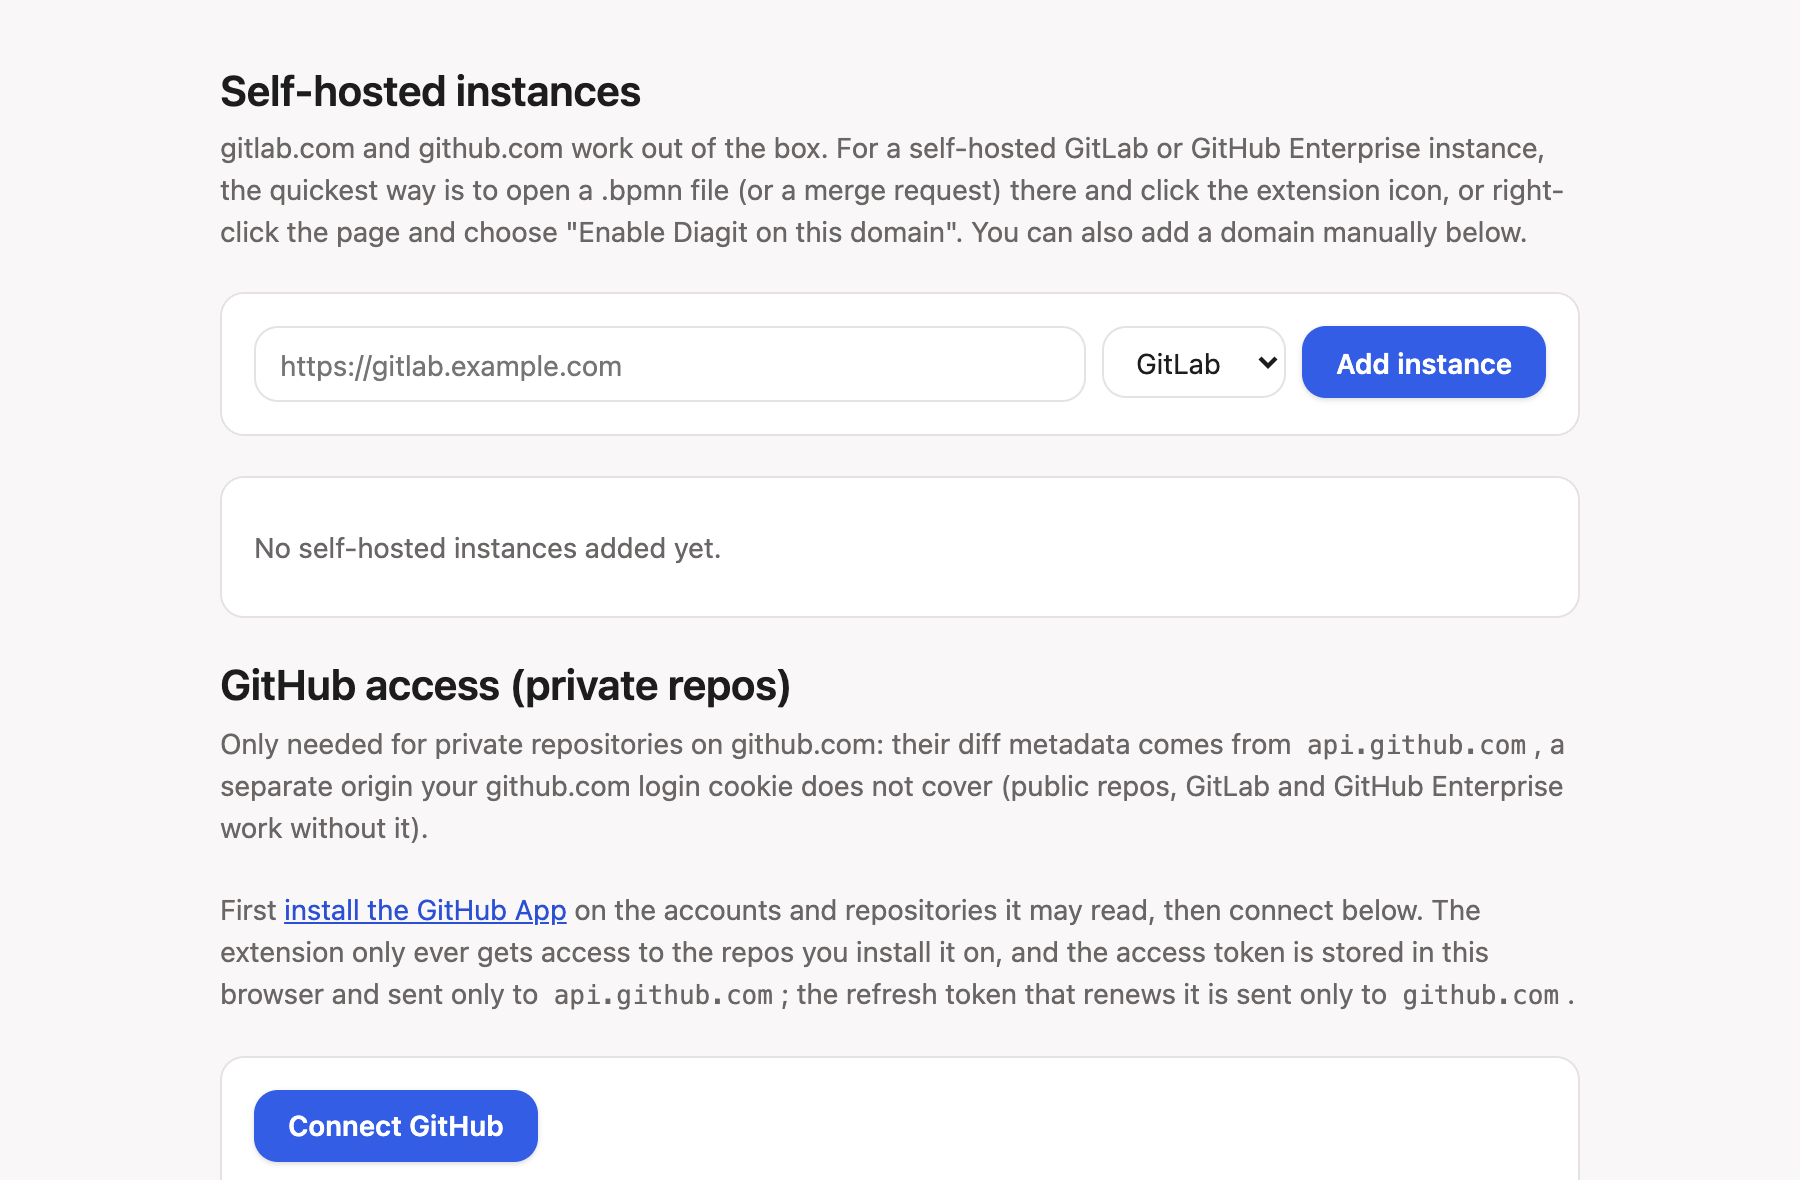
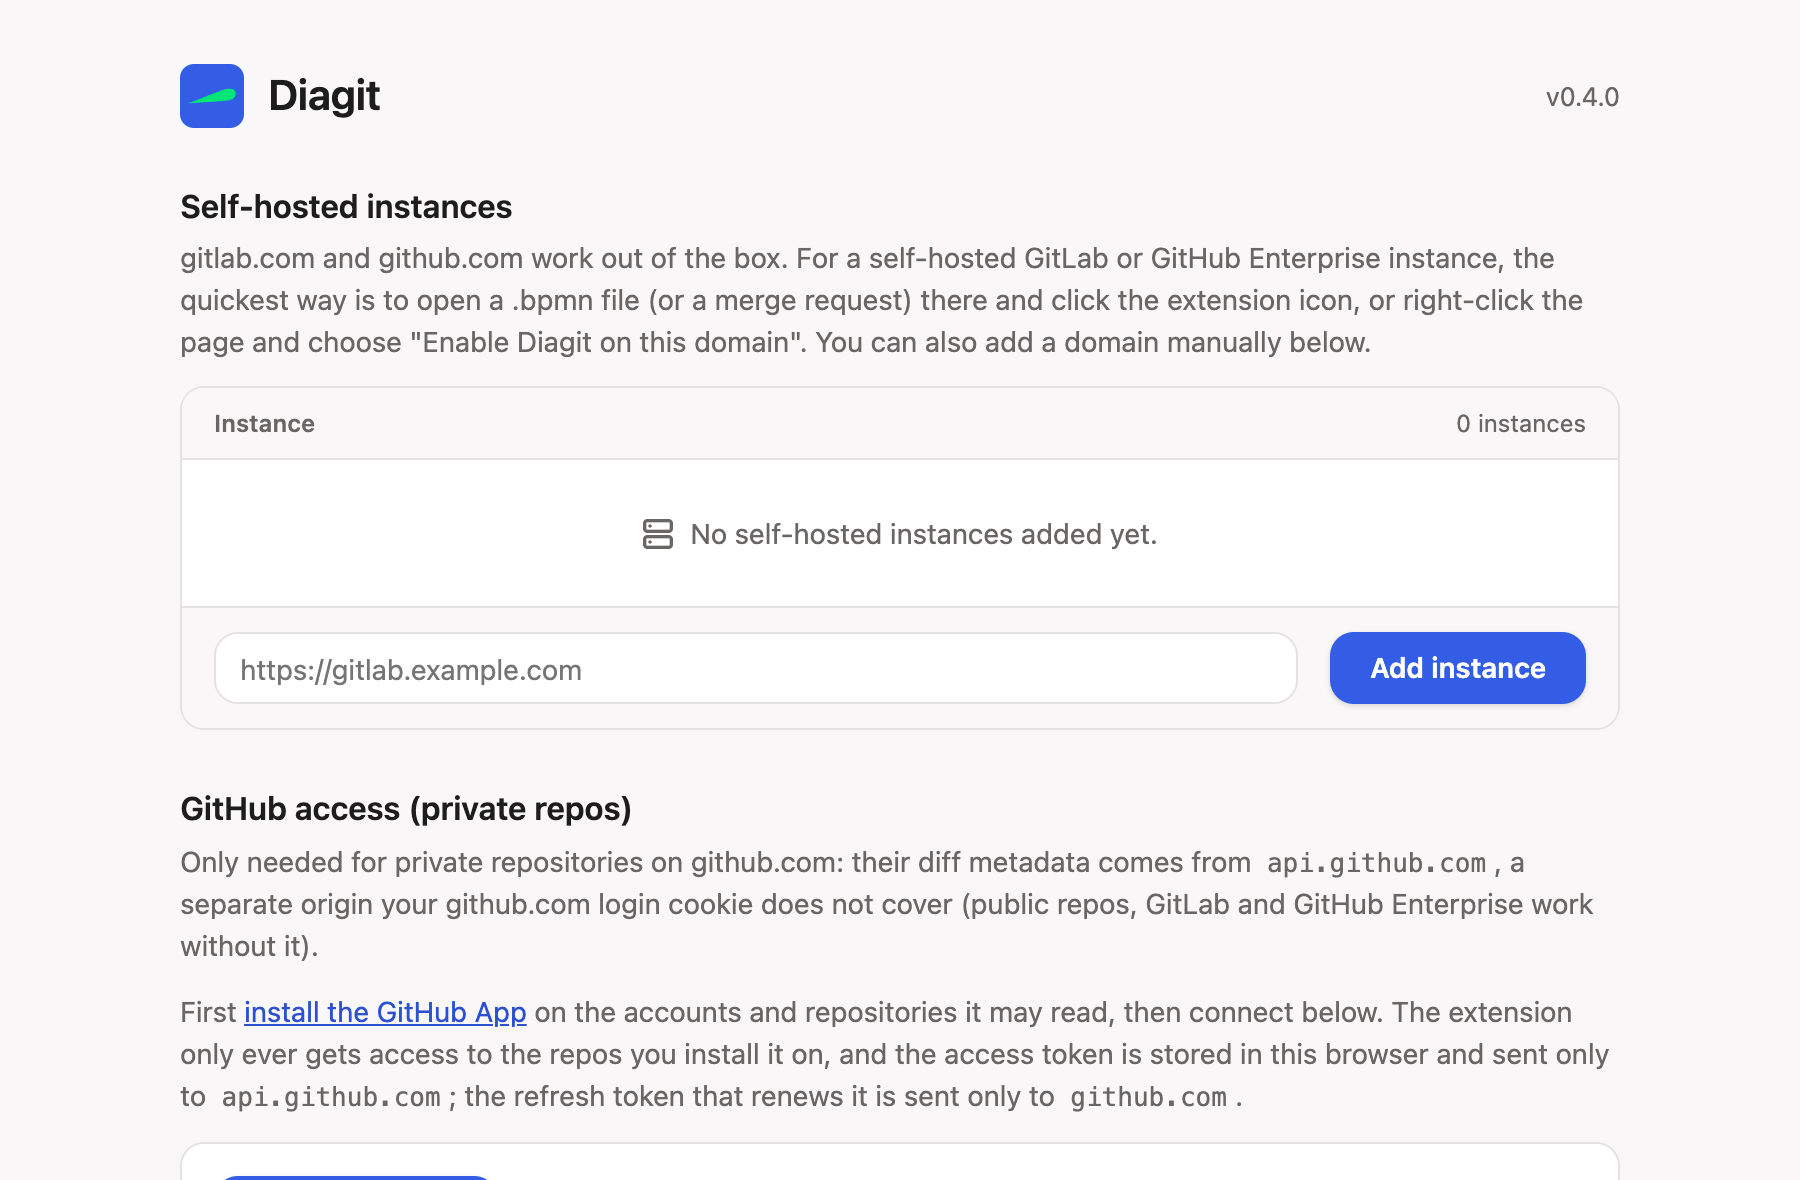
refactor: remove the unused type select from self-hosted instances (#185)

diff --git a/packages/extension/src/views/options/SelfHostedHostsSection.ts b/packages/extension/src/views/options/SelfHostedHostsSection.ts
@@ -1,6 +1,5 @@
 import { Server } from 'lucide'
 import { browser } from 'wxt/browser'
-import type { GitHost } from '../../git-hosts/GitHost'
 import type { HostAccess } from '../../git-hosts/self-hosted/HostAccess'
 import type { SelfHostedHost } from '../../git-hosts/self-hosted/SelfHostedHostStore'
 import { h } from '../../platform/utils/dom'
@@ -11,11 +10,6 @@ import { normalizeOrigin, originToPattern } from '../../platform/utils/origin'
 const INTRO =
   'gitlab.com and github.com work out of the box. For a self-hosted GitLab or GitHub Enterprise instance, the quickest way is to open a .bpmn file (or a merge request) there and click the extension icon, or right-click the page and choose "Enable Diagit on this domain". You can also add a domain manually below.'
 
-export interface HostChoices {
-  all(): readonly GitHost[]
-  hostById(id: string | undefined): GitHost | undefined
-}
-
 type StatusKind = 'error' | 'ok'
 
 export class SelfHostedHostsSection {
@@ -25,10 +19,6 @@ export class SelfHostedHostsSection {
     placeholder: 'https://gitlab.example.com',
     'aria-label': 'Instance URL',
   }) as HTMLInputElement
-  private readonly typeSelect = h('select', {
-    class: 'input',
-    'aria-label': 'Type',
-  }) as HTMLSelectElement
   private readonly addButton = h('button', {
     class: 'btn btn-primary add-instance',
     type: 'button',
@@ -38,15 +28,9 @@ export class SelfHostedHostsSection {
   private readonly count = h('th', { scope: 'col', class: 'count' })
   private readonly rows = h('tbody')
 
-  constructor(
-    private readonly access: HostAccess,
-    private readonly hosts: HostChoices,
-  ) {}
+  constructor(private readonly access: HostAccess) {}
 
   mount(app: HTMLElement): void {
-    this.typeSelect.append(
-      ...this.hosts.all().map((host) => h('option', { value: host.id, text: host.label })),
-    )
     app.append(
       h('section', { class: 'section' }, [
         h('h2', { text: 'Self-hosted instances' }),
@@ -73,7 +57,7 @@ export class SelfHostedHostsSection {
     }
     if (!granted) return this.setStatus('Permission was not granted.', 'error')
 
-    await this.access.label(origin, this.typeSelect.value)
+    await this.access.add(origin)
     this.originInput.value = ''
     this.setStatus(`Added ${origin}.`, 'ok')
     await this.refresh()
@@ -93,7 +77,7 @@ export class SelfHostedHostsSection {
     if (!hosts.length) {
       this.rows.replaceChildren(
         h('tr', {}, [
-          h('td', { class: 'empty', colspan: '3' }, [
+          h('td', { class: 'empty', colspan: '2' }, [
             lucideIcon(Server),
             'No self-hosted instances added yet.',
           ]),
@@ -106,20 +90,10 @@ export class SelfHostedHostsSection {
 
   private instanceTable(): HTMLTableElement {
     return h('table', { class: 'instances' }, [
-      h('thead', {}, [
-        h('tr', {}, [
-          h('th', { scope: 'col', text: 'Instance' }),
-          h('th', { scope: 'col', text: 'Type' }),
-          this.count,
-        ]),
-      ]),
+      h('thead', {}, [h('tr', {}, [h('th', { scope: 'col', text: 'Instance' }), this.count])]),
       this.rows,
       h('tfoot', {}, [
-        h('tr', {}, [
-          h('td', {}, [this.originInput, this.status]),
-          h('td', {}, [this.typeSelect]),
-          h('td', {}, [this.addButton]),
-        ]),
+        h('tr', {}, [h('td', {}, [this.originInput, this.status]), h('td', {}, [this.addButton])]),
       ]),
     ])
   }
@@ -132,11 +106,7 @@ export class SelfHostedHostsSection {
       'aria-label': `Remove ${host.origin}`,
     })
     remove.addEventListener('click', () => void this.remove(host))
-    return h('tr', {}, [
-      h('td', { text: host.origin }),
-      h('td', { text: this.hosts.hostById(host.type)?.label ?? 'Self-hosted' }),
-      h('td', {}, [remove]),
-    ])
+    return h('tr', {}, [h('td', { text: host.origin }), h('td', {}, [remove])])
   }
 
   private setStatus(text: string, kind: StatusKind): void {

diff --git a/packages/extension/test/dom/SelfHostedHostsSection.test.ts b/packages/extension/test/dom/SelfHostedHostsSection.test.ts
@@ -4,18 +4,13 @@ import { SelfHostedHostsSection } from '../../src/views/options/SelfHostedHostsS
 
 vi.mock('wxt/browser', () => ({ browser: {} }))
 
-const hosts = {
-  all: () => [{ id: 'gitlab', label: 'GitLab' }],
-  hostById: (id: string | undefined) => (id === 'gitlab' ? { label: 'GitLab' } : undefined),
-}
-
 afterEach(() => {
   document.body.innerHTML = ''
 })
 
 async function mountedWith(instances: SelfHostedHost[]): Promise<HTMLTableElement> {
   const access = { list: () => Promise.resolve(instances) }
-  new SelfHostedHostsSection(access as never, hosts as never).mount(document.body)
+  new SelfHostedHostsSection(access as never).mount(document.body)
   await vi.waitFor(() => expect(document.querySelector('tbody tr')).not.toBeNull())
   return document.querySelector('table')!
 }
@@ -27,35 +22,31 @@ function cellTexts(table: HTMLTableElement, selector: string): string[][] {
 }
 
 describe('SelfHostedHostsSection', () => {
-  it('lists each instance as a table row with its type', async () => {
+  it('lists each instance as a table row', async () => {
     const table = await mountedWith([
-      { origin: 'https://gitlab.example.com', type: 'gitlab' },
+      { origin: 'https://gitlab.example.com' },
       { origin: 'https://git.example.org' },
     ])
 
-    expect(cellTexts(table, 'thead tr')).toEqual([['Instance', 'Type', '2 instances']])
+    expect(cellTexts(table, 'thead tr')).toEqual([['Instance', '2 instances']])
     expect(cellTexts(table, 'tbody tr')).toEqual([
-      ['https://gitlab.example.com', 'GitLab', 'Remove'],
-      ['https://git.example.org', 'Self-hosted', 'Remove'],
+      ['https://gitlab.example.com', 'Remove'],
+      ['https://git.example.org', 'Remove'],
     ])
   })
 
   it('shows the empty state inside the table', async () => {
     const table = await mountedWith([])
 
-    expect(cellTexts(table, 'thead tr')).toEqual([['Instance', 'Type', '0 instances']])
+    expect(cellTexts(table, 'thead tr')).toEqual([['Instance', '0 instances']])
     expect(cellTexts(table, 'tbody tr')).toEqual([['No self-hosted instances added yet.']])
   })
 
   it('places the add form in the footer row on the same columns', async () => {
-    const table = await mountedWith([{ origin: 'https://gitlab.example.com', type: 'gitlab' }])
+    const table = await mountedWith([{ origin: 'https://gitlab.example.com' }])
     const footerCells = [...table.querySelectorAll('tfoot td')]
 
     expect(table.querySelector('thead th:last-child')?.textContent).toBe('1 instance')
-    expect(footerCells.map((cell) => cell.firstElementChild?.tagName)).toEqual([
-      'INPUT',
-      'SELECT',
-      'BUTTON',
-    ])
+    expect(footerCells.map((cell) => cell.firstElementChild?.tagName)).toEqual(['INPUT', 'BUTTON'])
   })
 })

diff --git a/packages/extension/src/git-hosts/self-hosted/SelfHostedHostStore.ts b/packages/extension/src/git-hosts/self-hosted/SelfHostedHostStore.ts
@@ -4,7 +4,6 @@ const STORAGE_KEY = 'selfHostedHosts'
 
 export interface SelfHostedHost {
   origin: string
-  type?: string
 }
 
 export class SelfHostedHostStore {
@@ -16,9 +15,8 @@ export class SelfHostedHostStore {
 
   async save(host: SelfHostedHost): Promise<void> {
     const hosts = await this.list()
-    const existing = hosts.find((saved) => saved.origin === host.origin)
     const others = hosts.filter((saved) => saved.origin !== host.origin)
-    await this.write([...others, { ...existing, ...host }])
+    await this.write([...others, host])
   }
 
   async remove(origin: string): Promise<void> {

diff --git a/packages/extension/test/HostAccess.test.ts b/packages/extension/test/HostAccess.test.ts
@@ -65,12 +65,12 @@ describe('HostAccess.grant', () => {
     expect(browserApi.tabs.reload).toHaveBeenCalledWith(1)
   })
 
-  it('keeps the label the options page gave the host', async () => {
-    await access.label(origin, 'gitlab')
+  it('lists an origin the options page added', async () => {
+    await access.add(origin)
 
     await access.grant([pattern])
 
-    expect(await access.list()).toEqual([{ origin, type: 'gitlab' }])
+    expect(await access.list()).toEqual([{ origin }])
   })
 
   it('ignores patterns that are not a concrete origin', async () => {

diff --git a/packages/extension/entrypoints/options/main.ts b/packages/extension/entrypoints/options/main.ts
@@ -19,7 +19,7 @@ const pageChrome = new OptionsPageChrome(environment.extensionVersion, browser.r
 const hostAccess = HostAccess.forHosts(hostRegistry)
 
 app.append(pageChrome.header())
-new SelfHostedHostsSection(hostAccess, hostRegistry).mount(app)
+new SelfHostedHostsSection(hostAccess).mount(app)
 new GithubAccessSection(new GithubDeviceFlow(), githubTokens).mount(app)
 new HelpSection(new DebugInfo(environment), async () => ({
   selfHostedInstances: (await hostAccess.list()).length,

diff --git a/packages/extension/test/HostRegistry.test.ts b/packages/extension/test/HostRegistry.test.ts
@@ -97,10 +97,6 @@ describe('HostRegistry.isSupportedUrl', () => {
 })
 
 describe('HostRegistry contributions', () => {
-  it('offers GitLab first, matching the self-hosted placeholder on the options page', () => {
-    expect(hostRegistry.all().map((host) => host.id)).toEqual(['gitlab', 'github'])
-  })
-
   it('lists every view script once, matching the content-script entrypoints', () => {
     expect(hostRegistry.allViewScripts()).toEqual([
       'gitlab-blob',

diff --git a/packages/extension/src/git-hosts/HostRegistry.ts b/packages/extension/src/git-hosts/HostRegistry.ts
@@ -7,14 +7,6 @@ export class HostRegistry {
     private readonly selfHostedFallback: GitHost,
   ) {}
 
-  all(): readonly GitHost[] {
-    return this.hosts
-  }
-
-  hostById(id: string | undefined): GitHost | undefined {
-    return this.hosts.find((host) => host.id === id)
-  }
-
   hostFor(url: PageUrl): GitHost {
     const publicHost = this.hosts.find(
       (host) => new URL(host.publicOrigin).hostname === url.hostname,

diff --git a/packages/extension/src/git-hosts/self-hosted/HostAccess.ts b/packages/extension/src/git-hosts/self-hosted/HostAccess.ts
@@ -42,8 +42,8 @@ export class HostAccess {
     return this.store.list()
   }
 
-  async label(origin: string, type: string): Promise<void> {
-    await this.store.save({ origin, type })
+  async add(origin: string): Promise<void> {
+    await this.store.save({ origin })
   }
 
   async grant(patterns: string[]): Promise<void> {

diff --git a/packages/extension/entrypoints/options/options.css b/packages/extension/entrypoints/options/options.css
@@ -223,10 +223,6 @@ input:focus-visible {
   font-weight: 600;
 }
 
-.instances th:nth-child(2) {
-  width: 140px;
-}
-
 .instances th:last-child {
   width: 128px;
 }

diff --git a/docs/self-hosted.md b/docs/self-hosted.md
@@ -16,10 +16,10 @@ Reload the page. Diagit now draws the model, as on github.com and gitlab.com.
 
 ## Add or remove a domain in the options
 
-Open the options: click the Diagit icon on any page that is not a Git host, or open the extension's options from the browser's extension menu. Under **Self-hosted instances**, enter the address, choose **GitLab** or **GitHub**, and press **Add instance**. **Remove** takes a domain away again.
+Open the options: click the Diagit icon on any page that is not a Git host, or open the extension's options from the browser's extension menu. Under **Self-hosted instances**, enter the address and press **Add instance**. **Remove** takes a domain away again.
 
 <figure class="shot">
-  <img src="/shots/options.png" alt="Diagit's options page with the sections Self-hosted instances, with an address field, a host type and Add instance, and GitHub access for private repos, with Connect GitHub" />
+  <img src="/shots/options.png" alt="Diagit's options page with the sections Self-hosted instances, with an address field and Add instance, and GitHub access for private repos, with Connect GitHub" />
   <figcaption>Diagit's options page</figcaption>
 </figure>
 
